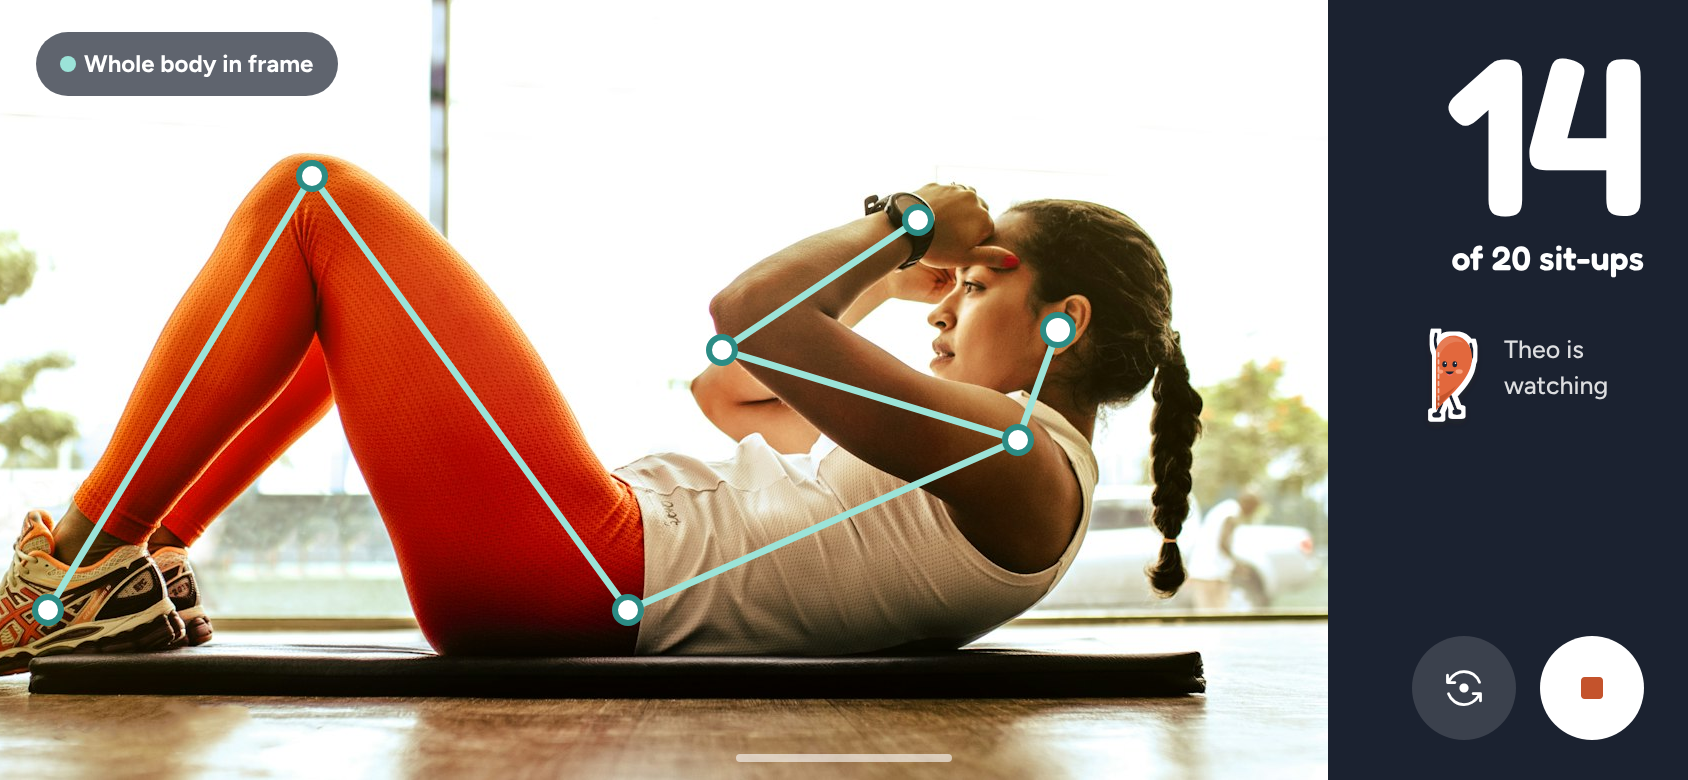
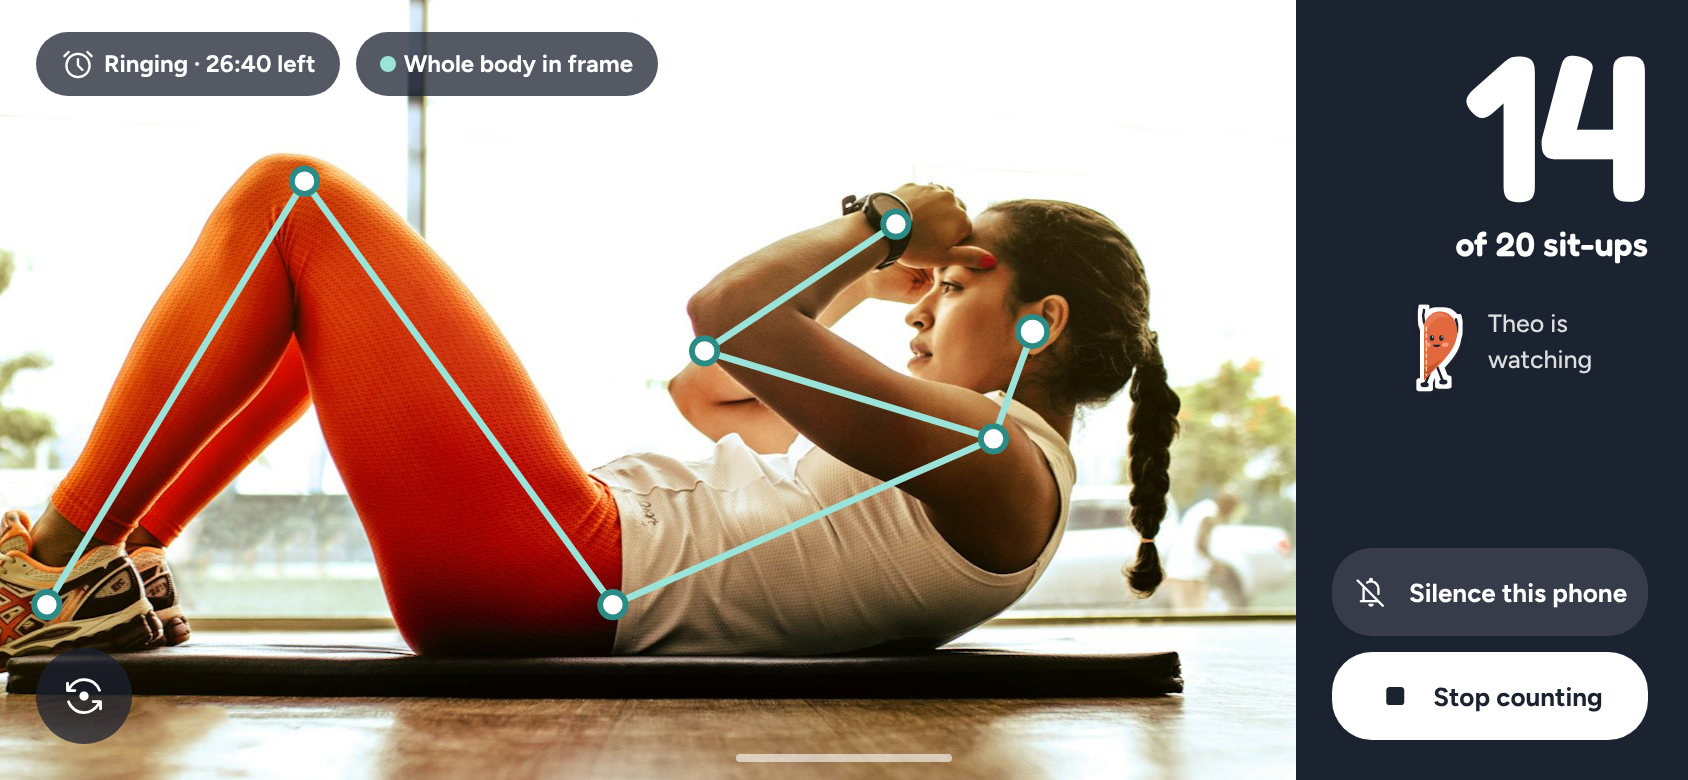
Apply finish-review fixes to Heartpact v3 screens
Camera screen shows the ringing state with labelled silence and stop
controls; one consistent sticker week across Today, Sealed and Pacts;
alarm grounded on ink; unfilled pending slots in both themes; food
leads with its estimate range; copy and map label contrast fixes.

Claude-Session: https://claude.ai/code/session_01JQgGJKj4npsEDXdNrsNSqP

diff --git a/design/heartpact-v3/screens/06-camera.html b/design/heartpact-v3/screens/06-camera.html
@@ -1,16 +1,17 @@
 <!-- {"status":"none","handle":"light","w":844,"h":390,"bg":"#1B2230"} -->
-<div style="position:absolute;left:0;top:0;bottom:0;width:664px;background:url(../assets/camera-situps.jpg) 70% center/auto 100%"></div>
-<svg style="position:absolute;left:0;top:0" width="664" height="390" viewBox="0 0 664 390" fill="none">
+<div style="position:absolute;left:0;top:0;bottom:0;width:648px;background:url(../assets/camera-situps.jpg) 70% center/auto 100%"></div>
+<svg style="position:absolute;left:0;top:0" width="648" height="390" viewBox="0 0 664 390" fill="none">
   <g stroke="#9BE3D8" stroke-width="3.5" stroke-linecap="round" stroke-linejoin="round"><polyline points="24,305 156,88 314,305 509,220 361,175 459,110"/><line x1="509" y1="220" x2="529" y2="165"/></g>
   <g fill="#fff" stroke="#2C8C85" stroke-width="3"><circle cx="24" cy="305" r="6.5"/><circle cx="156" cy="88" r="6.5"/><circle cx="314" cy="305" r="6.5"/><circle cx="509" cy="220" r="6.5"/><circle cx="361" cy="175" r="6.5"/><circle cx="459" cy="110" r="6.5"/><circle cx="529" cy="165" r="7.5"/></g>
 </svg>
-<div style="position:absolute;left:18px;top:16px"><span class="tag" style="background:rgba(27,34,48,.7);color:#fff;height:32px;padding:0 12px;border-radius:16px"><span class="dot" style="background:#9BE3D8"></span>Whole body in frame</span></div>
-<div style="position:absolute;right:0;top:0;bottom:0;width:180px;padding:18px 22px 20px 18px;background:#1B2230;color:#fff;display:flex;flex-direction:column;align-items:flex-end;text-align:right">
-  <div class="display" style="font-size:112px;line-height:.85">14</div>
+<div style="position:absolute;left:18px;top:16px;display:flex;gap:8px"><span class="tag" style="background:rgba(27,34,48,.75);color:#fff;height:32px;padding:0 12px;border-radius:16px"><span class="ms s18">alarm</span>Ringing · 26:40 left</span><span class="tag" style="background:rgba(27,34,48,.75);color:#fff;height:32px;padding:0 12px;border-radius:16px"><span class="dot" style="background:#9BE3D8"></span>Whole body in frame</span></div>
+<div class="iconbtn" style="position:absolute;left:18px;bottom:18px;width:48px;height:48px;border-radius:24px;background:rgba(27,34,48,.75);color:#fff"><span class="ms">flip_camera_android</span></div>
+<div style="position:absolute;right:0;top:0;bottom:0;width:196px;padding:18px 20px 20px 18px;background:#1B2230;color:#fff;display:flex;flex-direction:column;align-items:flex-end;text-align:right">
+  <div class="display" style="font-size:104px;line-height:.85">14</div>
   <div class="title-s" style="margin-top:6px">of 20 sit-ups</div>
-  <div style="display:flex;align-items:center;gap:8px;margin-top:14px">{{m:theo:cheer:52:sticker:cheer}}<span class="small" style="opacity:.85;text-align:left;max-width:70px">Theo is watching</span></div>
-  <div style="display:flex;gap:12px;margin-top:auto">
-    <div class="iconbtn" style="width:52px;height:52px;border-radius:26px;background:rgba(255,255,255,.14);color:#fff"><span class="ms">flip_camera_android</span></div>
-    <div class="iconbtn" style="width:52px;height:52px;border-radius:26px;background:#fff;color:#C4532C"><span class="ms fill">stop</span></div>
+  <div style="display:flex;align-items:center;gap:8px;margin-top:10px">{{m:theo:cheer:48:sticker:cheer}}<span class="small" style="opacity:.85;text-align:left;max-width:80px">Theo is watching</span></div>
+  <div style="display:flex;flex-direction:column;gap:8px;margin-top:auto;width:100%">
+    <div class="btn sm" style="height:44px;background:rgba(255,255,255,.12);color:#fff;font-size:13px;padding:0 10px"><span class="ms s18">notifications_off</span>Silence this phone</div>
+    <div class="btn sm" style="height:44px;background:#fff;color:#1B2230;font-size:13px;padding:0 10px"><span class="ms s18 fill">stop</span>Stop counting</div>
   </div>
 </div>

diff --git a/design/heartpact-v3/screens/05-alarm.html b/design/heartpact-v3/screens/05-alarm.html
@@ -1,10 +1,10 @@
-<!-- {"time":"8:00","status":"light","handle":"light","bg":"#C4532C"} -->
+<!-- {"time":"8:00","status":"light","handle":"light","bg":"#1B2230"} -->
 <div class="scroll" style="color:#fff;padding:14px 20px 0;display:flex;flex-direction:column">
   <div style="display:flex;justify-content:space-between;align-items:flex-start">
-    <div><div class="display" style="font-size:96px">8:00</div><div class="body-l" style="margin-top:10px;display:flex;align-items:center;gap:8px"><span class="ms s20">alarm</span>Theo's dare is ringing</div></div>
-    <div style="margin-top:6px">{{m:maya:stand:96:sticker:worried}}</div>
+    <div><div class="display" style="font-size:108px">8:00</div><div class="body-l" style="margin-top:10px;display:flex;align-items:center;gap:8px"><span class="ms s20">alarm</span>Theo's dare is ringing</div></div>
+    <div style="margin-top:6px">{{m:maya:stand:118:sticker:worried}}</div>
   </div>
-  <div class="dare" style="margin-top:20px;color:var(--ink)">
+  <div class="dare" style="margin-top:auto;color:var(--ink)">
     <div class="in" style="padding:20px 20px 16px">
       <div class="title">20 sit-ups, on camera</div>
       <div class="body muted" style="margin-top:4px">0 of 20 counted · stops at 20</div>
@@ -12,13 +12,16 @@
       <div class="btn filled act-maya" style="margin-top:14px"><span class="ms">photo_camera</span>Start on camera</div>
     </div>
   </div>
-  <div style="margin-top:auto;display:flex;align-items:flex-end;justify-content:space-between;padding:0 4px">
-    <div><div class="display-s" style="font-size:52px">29:41</div><div class="body" style="opacity:.9;margin-top:4px">left to ring</div></div>
-    <span class="tag" style="background:rgba(0,0,0,.18);color:#fff;height:32px;padding:0 12px;border-radius:16px">Theo can see it ringing</span>
+  <div style="margin-top:18px;display:flex;align-items:center;gap:14px;padding:12px 16px 12px 10px;border-radius:22px;background:rgba(255,255,255,.07)">
+    {{m:theo:stand:56:sticker:worried}}
+    <div class="grow"><div style="font-weight:700">Theo can see it ringing</div><div class="small" style="opacity:.8;margin-top:2px">He gets your count live once you start.</div></div>
   </div>
-  <div class="stack" style="margin-top:18px;padding-bottom:40px">
-    <div class="btn" style="background:rgba(0,0,0,.2);color:#fff">Ask Theo to call it off</div>
+  <div style="margin-top:22px;display:flex;align-items:flex-end;gap:10px;padding:0 4px">
+    <div class="display-s" style="font-size:52px">29:41</div><div class="body" style="opacity:.8;padding-bottom:8px">left to ring</div>
+  </div>
+  <div class="stack" style="margin-top:auto;padding-top:16px;padding-bottom:40px">
+    <div class="btn" style="background:rgba(255,255,255,.12);color:#fff">Ask Theo to call it off</div>
     <div class="btn text" style="--act:#fff"><span class="ms s20">notifications_off</span>Silence on this phone</div>
-    <div class="small" style="text-align:center;opacity:.9;margin-top:-4px">Silencing keeps the dare open until 8:30.</div>
+    <div class="small" style="text-align:center;opacity:.8;margin-top:-4px">Silencing keeps the dare open until 8:30.</div>
   </div>
 </div>

diff --git a/design/heartpact-v3/screens/07-sealed.html b/design/heartpact-v3/screens/07-sealed.html
@@ -4,14 +4,14 @@
   <div class="dare" style="padding:18px 20px 22px;text-align:center">
     <div style="display:flex;justify-content:center;margin-top:-6px">{{m:both:cheer:170:sticker:cheer}}</div>
     <div class="headline" style="margin-top:12px">Heart complete</div>
-    <div class="body-l muted" style="margin-top:6px">20 of 20 sit-ups at 7:56,<br>four minutes before it rang.</div>
+    <div class="body-l muted" style="margin-top:6px">20 of 20 sit-ups at 7:56,<br>four minutes before it would ring.</div>
     <div class="hair" style="margin:18px 0 12px"></div>
-    <div style="display:flex;justify-content:space-between" class="small muted"><span>Counted by camera</span><span><b style="color:var(--ink)">20</b> clean · 2 not counted</span></div>
-    <div style="display:flex;justify-content:space-between;margin-top:4px" class="small muted"><span>Theo</span><span>gets the heart too</span></div>
+    <div class="small muted">The camera counted <b style="color:var(--ink)">20 clean reps</b> and skipped 2.</div>
+    <div class="small muted" style="margin-top:4px">The same heart goes on Theo's page.</div>
   </div>
   <div class="card" style="margin-top:12px;padding:14px 16px">
-    <div style="display:flex;justify-content:space-between;align-items:baseline"><span class="label">Your page · 15 hearts</span><span class="small muted">this week</span></div>
-    <div class="days" style="margin-top:12px">{{heart:30}}{{heart:30}}{{heart:30}}{{peeled:30}}{{heart:30}}{{heart:30}}{{heart:30}}</div>
+    <div style="display:flex;justify-content:space-between;align-items:baseline"><span class="label">Your page · 15 hearts</span><span class="small muted">5–11 Oct</span></div>
+    <div class="days" style="margin-top:12px">{{heart:30}}{{heart:30}}<span class="slot missed" style="width:28px;height:30px"></span>{{heart:30}}{{peeled:30}}{{heart:30}}{{heart:30}}</div>
   </div>
 </div>
 <div class="act-maya stack" style="padding:8px 20px 40px"><div class="btn filled">Dare Theo back</div><div class="btn text">Back to today</div></div>

diff --git a/design/heartpact-v3/screens/10-food.html b/design/heartpact-v3/screens/10-food.html
@@ -2,13 +2,13 @@
 <div class="scroll act-maya">
   <div class="largebar" style="padding-top:6px"><div><div class="headline">Food</div><div class="sub">Saturday · photo estimates run about ±30%</div></div></div>
   <div class="card" style="margin:0 12px;padding:18px 20px">
-    <div style="display:flex;align-items:flex-end;gap:10px"><span class="display-s">~1,240</span><span class="body muted" style="padding-bottom:4px">of ~1,900 kcal</span></div>
+    <div class="label">Eaten so far, estimated</div>
+    <div style="display:flex;align-items:flex-end;gap:8px;margin-top:6px"><span class="display-s">1,050–1,430</span><span class="body muted" style="padding-bottom:4px">kcal</span></div>
     <div style="position:relative;height:12px;border-radius:6px;background:var(--sticker-2);margin-top:16px;box-shadow:inset 0 0 0 2px var(--rule)">
       <div style="position:absolute;left:0;top:0;bottom:0;width:65%;border-radius:6px;background:var(--maya-art)"></div>
       <div style="position:absolute;left:55%;width:20%;top:-4px;bottom:-4px;border-radius:10px;border:2px dashed var(--maya)"></div>
     </div>
-    <div class="small muted" style="margin-top:8px">Probably between 1,050 and 1,430</div>
-    <div style="display:flex;gap:8px;margin-top:14px"><span class="tag">Protein ~62 g</span><span class="tag">Carbs ~140 g</span><span class="tag">Fat ~48 g</span></div>
+    <div class="small muted" style="margin-top:8px">Your day aims for about 1,900. Mostly carbs so far, with around 62 g of protein.</div>
   </div>
   <div class="sect"><h2>Logged today</h2><a>Edit</a></div>
   <div class="card" style="margin:0 12px">

diff --git a/design/heartpact-v3/screens/03-today.html b/design/heartpact-v3/screens/03-today.html
@@ -8,7 +8,7 @@
     <div class="peg" style="right:6px;top:-40px">{{m:theo:wave:72:sticker}}</div>
     <div class="in">
       <div class="title" style="max-width:250px">20 sit-ups by 8:00</div>
-      <div class="body muted" style="margin-top:4px">Theo's dare · his alarm rings if you don't</div>
+      <div class="body muted" style="margin-top:4px">Theo's dare · your phone rings if you don't</div>
       <div style="display:flex;align-items:flex-end;gap:12px;margin-top:10px">
         <span class="display">12</span>
         <span class="body muted" style="padding-bottom:4px;line-height:1.35">minutes left<br>0 of 20 counted</span>
@@ -25,8 +25,8 @@
   </div>
 
   <div class="card" style="margin:12px 12px 0;padding:12px 16px;display:flex;align-items:center;gap:6px">
-    <span class="label" style="margin-right:auto">This week</span>
-    {{heart:26}}{{heart:26}}{{heart:26}}{{peeled:26}}{{heart:26}}{{heart:26}}<span class="slot next"></span>
+    <span class="label" style="margin-right:auto">5–11 Oct</span>
+    {{heart:26}}{{heart:26}}<span class="slot missed"></span>{{heart:26}}{{peeled:26}}{{heart:26}}<span class="pair" style="display:flex">{{slot:l:26}}<span style="margin-left:-26px">{{half:r:26}}</span></span>
   </div>
 
   <div class="card" style="margin:12px 12px 0">

diff --git a/design/heartpact-v3/screens/19-today-dark.html b/design/heartpact-v3/screens/19-today-dark.html
@@ -8,7 +8,7 @@
     <div class="peg" style="right:6px;top:-40px">{{m:theo:wave:72:sticker}}</div>
     <div class="in">
       <div class="title" style="max-width:250px">20 sit-ups by 8:00</div>
-      <div class="body muted" style="margin-top:4px">Theo's dare · his alarm rings if you don't</div>
+      <div class="body muted" style="margin-top:4px">Theo's dare · your phone rings if you don't</div>
       <div style="display:flex;align-items:flex-end;gap:12px;margin-top:10px">
         <span class="display">12</span>
         <span class="body muted" style="padding-bottom:4px;line-height:1.35">minutes left<br>0 of 20 counted</span>
@@ -25,8 +25,8 @@
   </div>
 
   <div class="card" style="margin:12px 12px 0;padding:12px 16px;display:flex;align-items:center;gap:6px">
-    <span class="label" style="margin-right:auto">This week</span>
-    {{heart:26}}{{heart:26}}{{heart:26}}{{peeled:26}}{{heart:26}}{{heart:26}}<span class="slot next"></span>
+    <span class="label" style="margin-right:auto">5–11 Oct</span>
+    {{heart:26}}{{heart:26}}<span class="slot missed"></span>{{heart:26}}{{peeled:26}}{{heart:26}}<span class="pair" style="display:flex">{{slot:l:26}}<span style="margin-left:-26px">{{half:r:26}}</span></span>
   </div>
 
   <div class="card" style="margin:12px 12px 0">

diff --git a/design/heartpact-v3/render.js b/design/heartpact-v3/render.js
@@ -16,7 +16,7 @@ const keyline = d => `<path d="${d}" fill="#fff" stroke="#fff" stroke-width="13"
 const STICKERS = {
   heart: s => box(s, keyline(WHOLE) + `<path d="${LEFT}" fill="#2C8C85"/><path d="${RIGHT}" fill="#E2683C"/>`),
   half: (side, s) => box(s, keyline(side === 'l' ? LEFT : RIGHT) + `<path d="${side === 'l' ? LEFT : RIGHT}" fill="${side === 'l' ? '#2C8C85' : '#E2683C'}"/>`),
-  slot: (side, s) => box(s, `<path d="${side === 'l' ? LEFT : RIGHT}" fill="rgba(255,255,255,.5)" stroke="${side === 'l' ? '#23746E' : '#C4532C'}" stroke-width="5" stroke-dasharray="9 8" stroke-linejoin="round" stroke-linecap="round"/>`),
+  slot: (side, s) => box(s, `<path d="${side === 'l' ? LEFT : RIGHT}" fill="none" style="stroke:var(${side === 'l' ? '--maya' : '--theo'})" stroke-width="5" stroke-dasharray="9 8" stroke-linejoin="round" stroke-linecap="round"/>`),
   peeled: s => box(s, keyline(WHOLE) + `<path d="${LEFT}" fill="#2C8C85" opacity=".55"/><path d="${RIGHT}" fill="#E2683C" opacity=".55"/><path d="M70 4 C 86 4 96 16 96 33 L 70 33 Z" fill="#F3F4FC"/><path d="M70 4 L70 33 L96 33" fill="none" stroke="#C9CEE8" stroke-width="3" stroke-linejoin="round"/>`),
 };
 function expand(html) {

diff --git a/design/heartpact-v3/screens/13-map.html b/design/heartpact-v3/screens/13-map.html
@@ -4,7 +4,7 @@
   <path d="M-20 520 C 90 470, 160 600, 260 540 S 380 470, 420 500" stroke="#C9DDF2" stroke-width="34"/>
   <rect x="210" y="130" width="140" height="120" rx="18" fill="#D6EBDC"/><rect x="24" y="600" width="120" height="90" rx="18" fill="#D6EBDC"/>
   <g stroke="#fff" stroke-linecap="round"><path d="M-10 90 L400 150 M-10 300 L400 270 M-10 420 L400 430 M-10 720 L400 680" stroke-width="10"/><path d="M70 -10 L110 860 M190 -10 L180 860 M300 -10 L330 860" stroke-width="10"/><path d="M-10 200 L400 210 M-10 360 L400 350 M-10 620 L400 600 M140 -10 L150 860 M250 -10 L260 860" stroke-width="5"/></g>
-  <text x="226" y="240" font-family="Figtree" font-size="12" font-weight="700" fill="#5E8A6A">Meadow Park</text>
+  <text x="342" y="240" text-anchor="end" font-family="Figtree" font-size="12" font-weight="700" fill="#2F5A3C">Meadow Park</text>
   <path d="M124 392 C 170 330, 220 260, 262 210" stroke="#1B2230" stroke-width="2.5" stroke-dasharray="2 8" stroke-linecap="round" opacity=".4"/>
 </svg>
 <div style="position:absolute;left:84px;top:330px">{{m:maya:wave:70:sticker}}</div>
